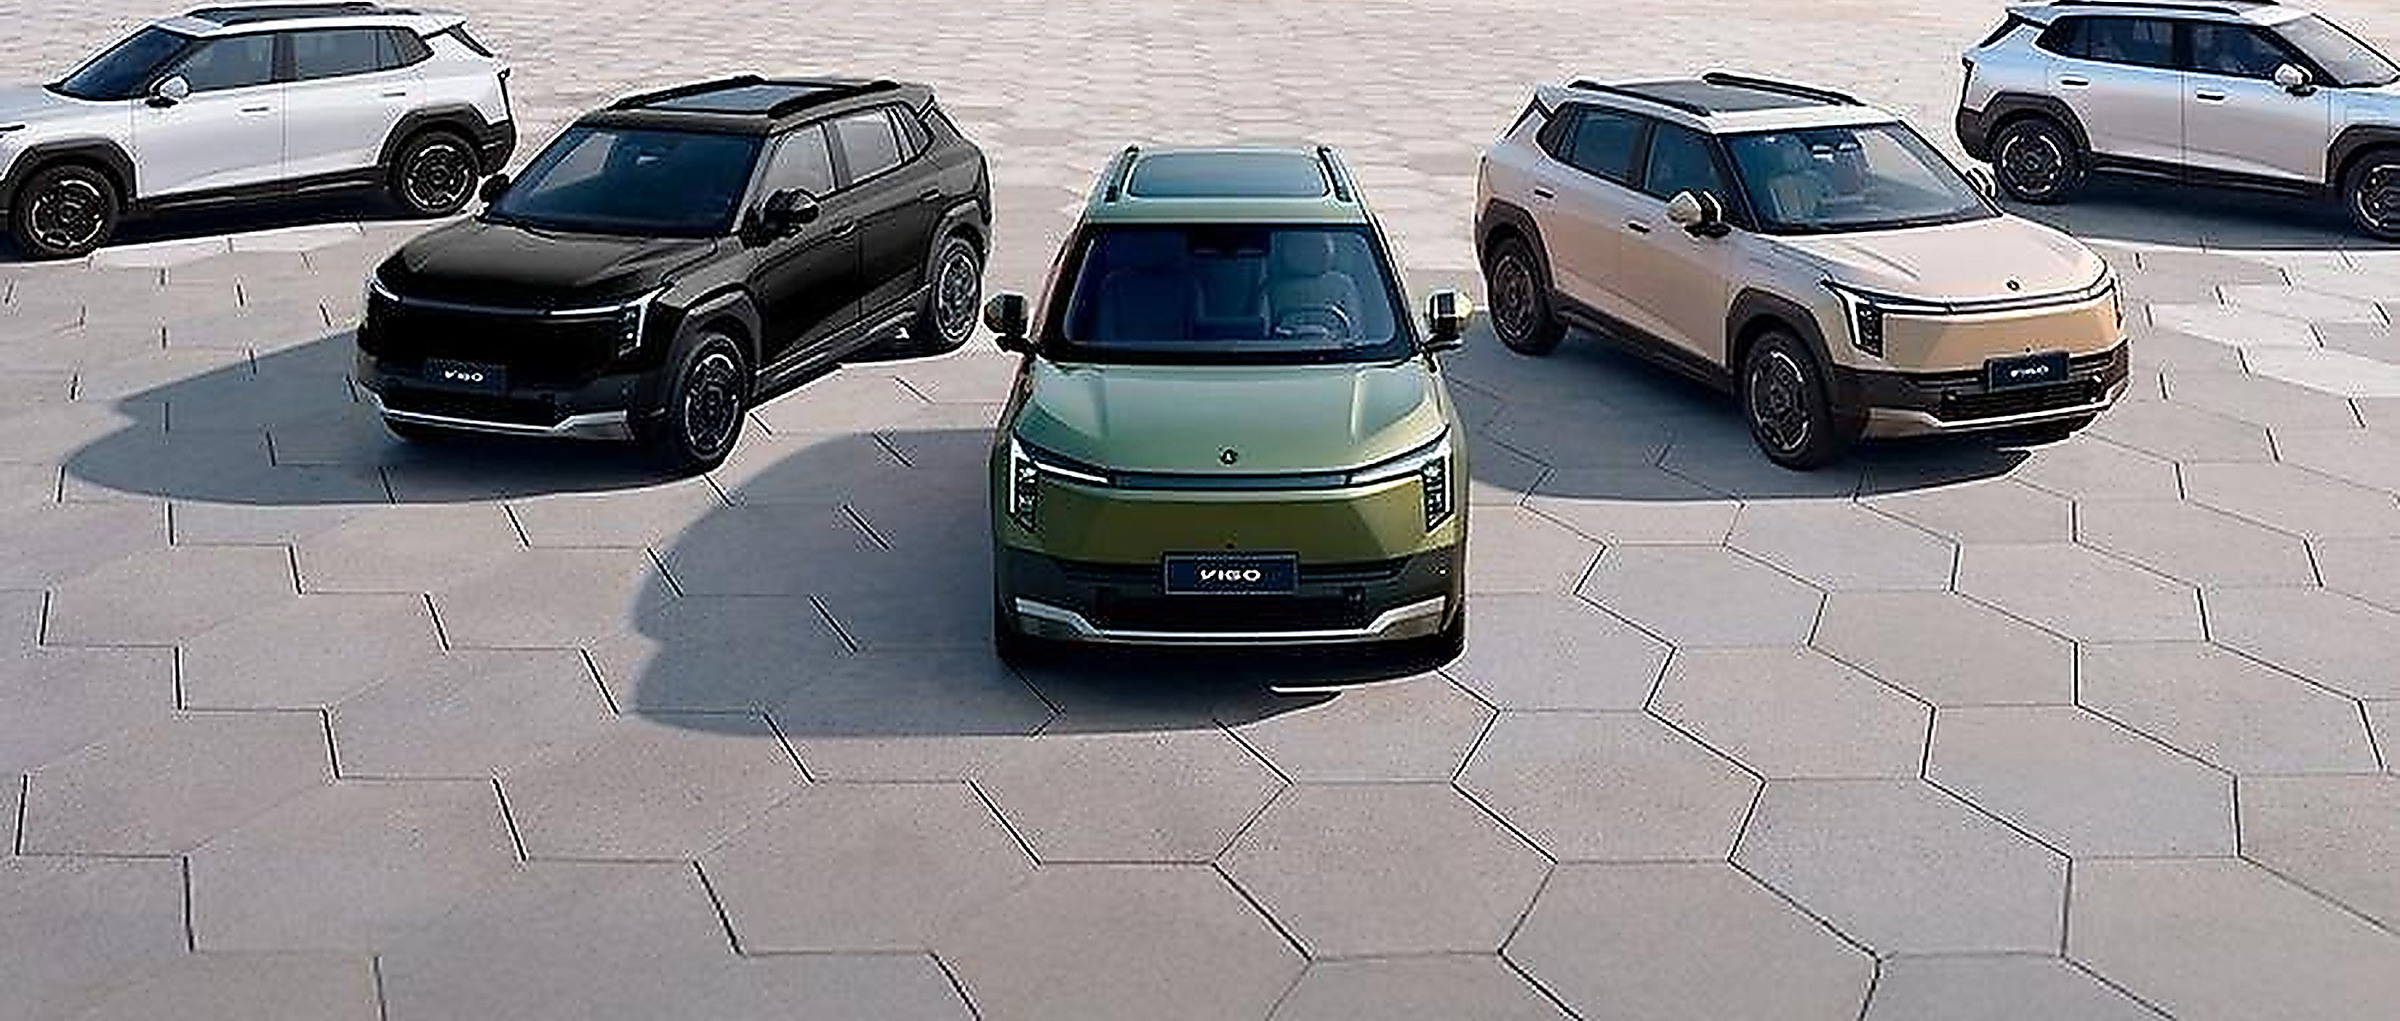
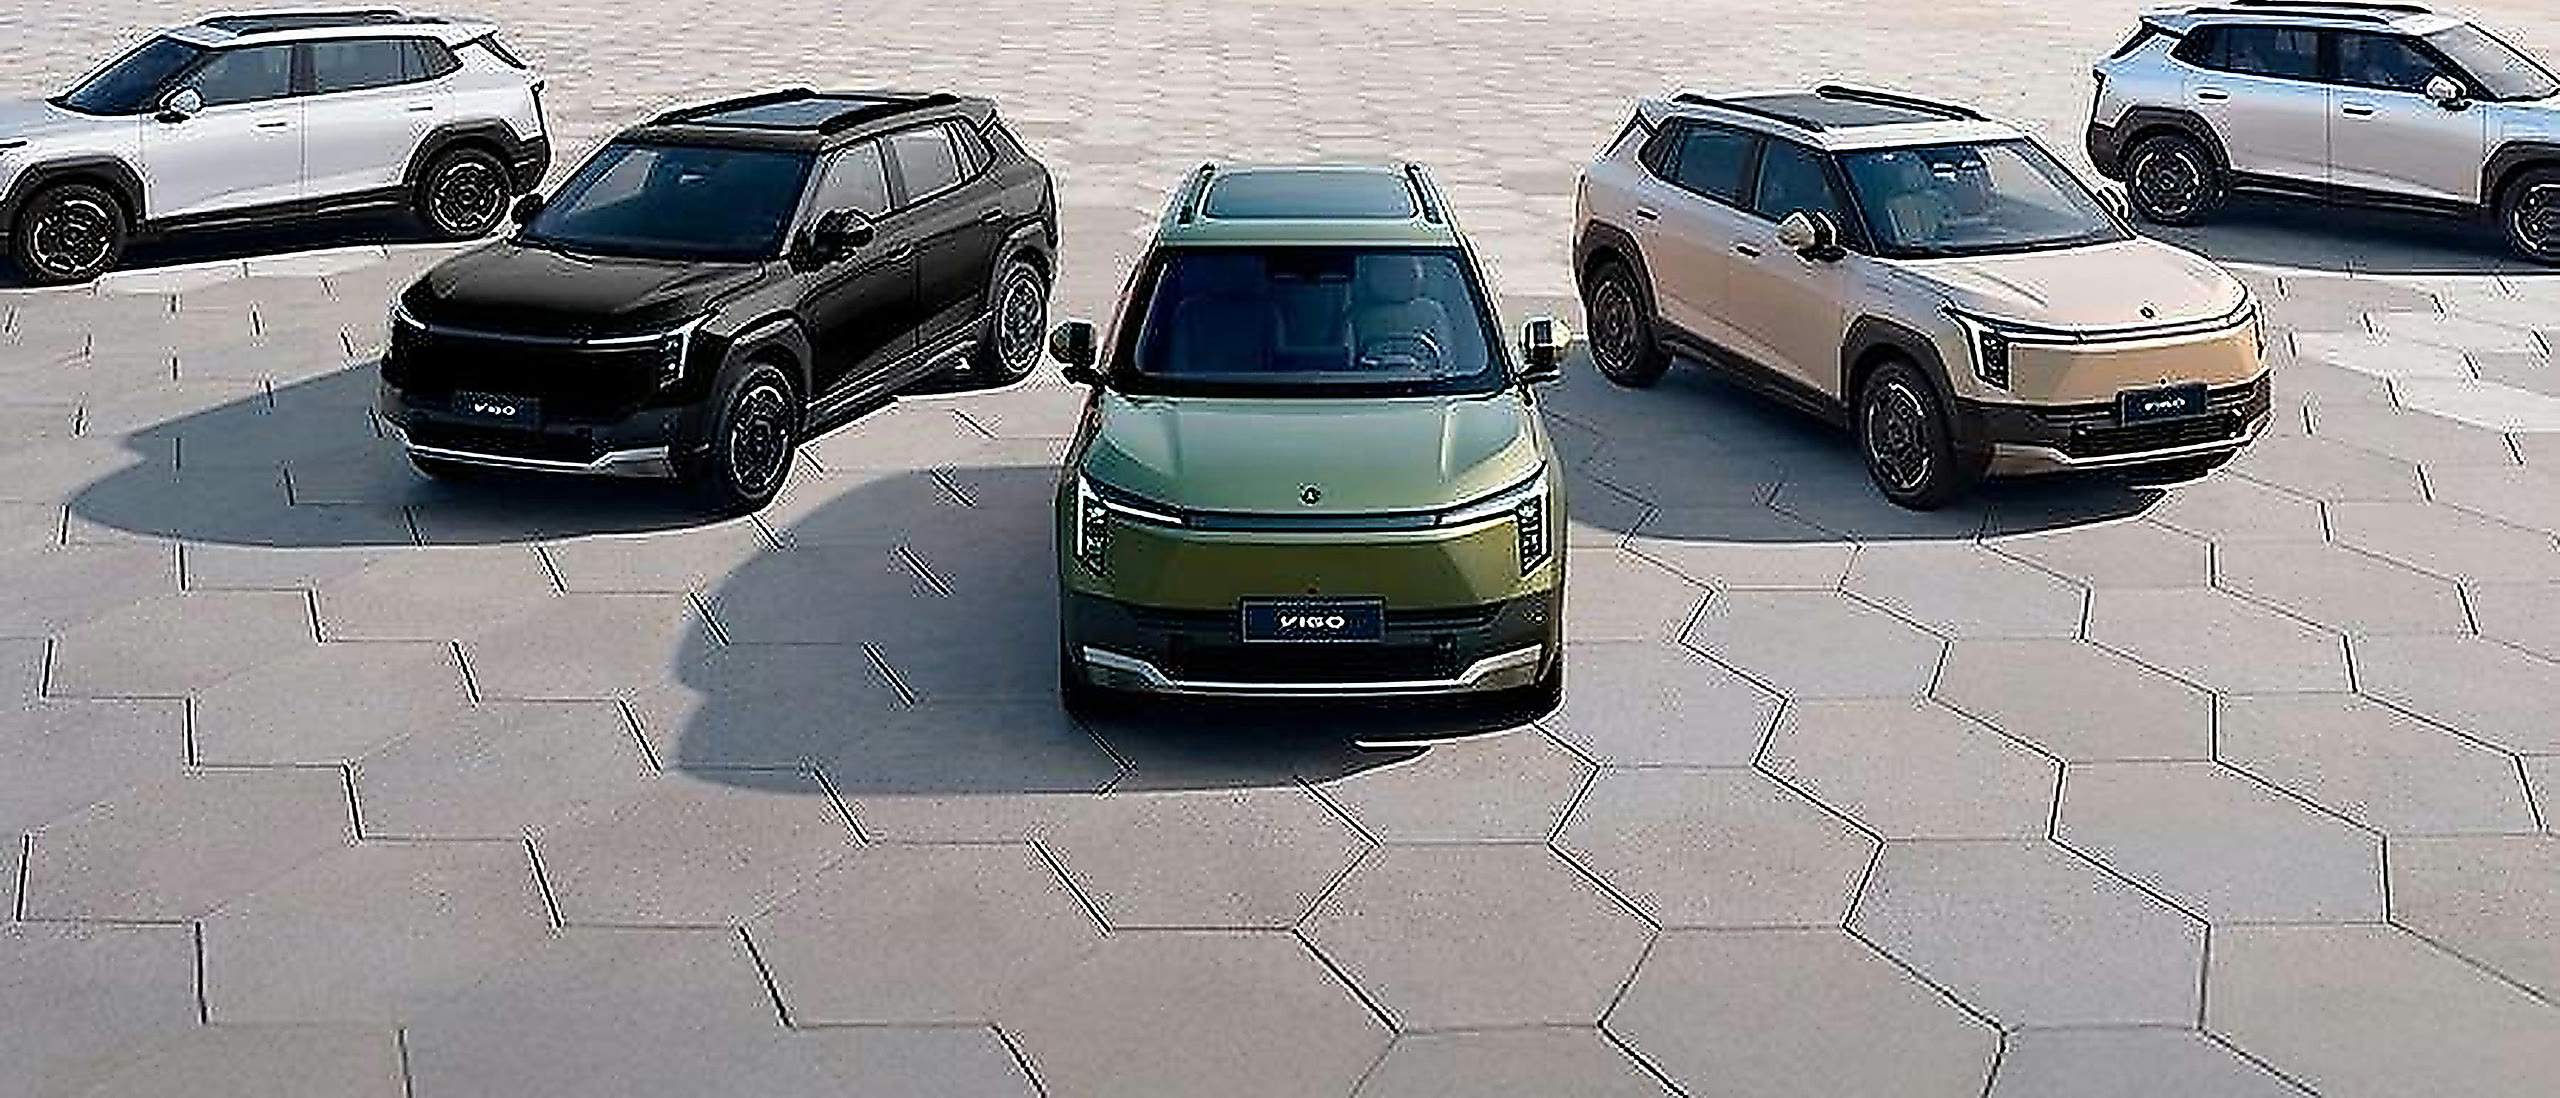
El mosaico de los cinco Vigo, regenerado desde la fuente mas nitida del repo
Daniel reporto pixelado. Medido, no a ojo: se calculo la energia de alto
detalle (varianza del laplaciano, normalizando todo al mismo ancho para que
la comparacion sea justa) sobre las cuatro copias de esta misma foto que
viven en el repo:

  img/carr/vigo@2x.jpg      3.960px   nitidez 3.371  <- la mejor
  img/vigo/hero-ancho@2x    3.600px   nitidez 2.745  <- la que se publicaba
  img/vigo/hero-ancho       2.400px   nitidez 1.830
  img/carr/vigo-d2x.jpg     3.840px   nitidez   584

La ultima fila es la leccion: tiene MAS pixeles que la que estabamos usando
y cinco veces MENOS detalle. Es una ampliacion, exactamente el fallo que
CLAUDE.md ya advierte. Contar pixeles no sirve; hay que medir.

Se regenera todo el set desde la de 3.960px con el pipeline aprobado
-lanczos + unsharp 0,5, cwebp -q 84 -sharp_yuv-, sin re-enfocar el tamano
nativo (unsharp sobre el original solo mete halos). Resultado medido:

  @2x  2.745 -> 3.371  (+23%)
  1x   1.830 -> 3.867  (+111%, y ademas pesa MENOS: 579KB -> 564KB)

Se agregan anchos intermedios (1280/1920/2560) que no existian: antes el
telefono se bajaba la imagen de escritorio entera. Ahora movil pide 159KB
-dentro del presupuesto de 180KB de CLAUDE.md- en vez de 579KB.

El aspect-ratio de .calle-hero.panoramica pasa de 2400/1021 a 3960/1697:
sin eso el marco recortaba a los Vigo de las puntas, que en esta foto casi
tocan el borde.

Techo honesto: 3.960px es el maximo que existe de esta foto en todo el
[…]

diff --git a/index.html b/index.html
@@ -65,11 +65,9 @@
 <section class="carr" id="carr" aria-roledescription="carrusel" aria-label="Veh&iacute;culos disponibles">
     <div class="slide on panoramica" data-i="0">
       <picture>
-        <source type="image/webp" media="(max-width:860px)" srcset="img/vigo/hero-ancho.webp">
-        <source type="image/webp" media="(min-width:861px)" srcset="img/vigo/hero-ancho.webp 2400w, img/vigo/hero-ancho@2x.webp 3600w" sizes="100vw">
-        <source media="(max-width:860px)" srcset="img/vigo/hero-ancho.jpg">
-        <source media="(min-width:861px)" srcset="img/vigo/hero-ancho.jpg 2400w" sizes="100vw">
-        <img src="img/vigo/hero-ancho.jpg" alt="La gama Dongfeng Vigo completa, un color por unidad, sobre una explanada" width="2400" height="1021" fetchpriority="high">
+        <source type="image/webp" srcset="img/vigo/hero-ancho-1280.webp 1280w, img/vigo/hero-ancho-1920.webp 1920w, img/vigo/hero-ancho-2560.webp 2560w, img/vigo/hero-ancho@2x.webp 3960w" sizes="100vw">
+        <source srcset="img/vigo/hero-ancho.jpg 2560w, img/vigo/hero-ancho@2x.jpg 3960w" sizes="100vw">
+        <img src="img/vigo/hero-ancho.jpg" alt="La gama Dongfeng Vigo completa, un color por unidad, sobre una explanada" width="3960" height="1697" fetchpriority="high">
       </picture>
       <div class="velo"></div>
       <div class="txt"><div class="wrap">
@@ -208,7 +206,7 @@
   </div>
 
   <div class="calle-hero panoramica">
-    <picture><source type="image/webp" srcset="img/vigo/hero-ancho.webp 2400w, img/vigo/hero-ancho@2x.webp 3600w" sizes="100vw"><img src="img/vigo/hero-ancho.jpg" alt="La gama Dongfeng Vigo completa, un color por unidad, sobre una explanada" width="2400" height="1021" loading="lazy" decoding="async"></picture>
+    <picture><source type="image/webp" srcset="img/vigo/hero-ancho-1280.webp 1280w, img/vigo/hero-ancho-1920.webp 1920w, img/vigo/hero-ancho-2560.webp 2560w, img/vigo/hero-ancho@2x.webp 3960w" sizes="100vw"><img src="img/vigo/hero-ancho.jpg" alt="La gama Dongfeng Vigo completa, un color por unidad, sobre una explanada" width="3960" height="1697" loading="lazy" decoding="async"></picture>
     <div class="sobre"><div class="wrap">
       <h3>Cinco colores,<br>una misma familia.</h3>
       <p>Material de marca Dongfeng. Los colores disponibles en Colombia son los del cat&aacute;logo de cada referencia.</p>

diff --git a/torq.css b/torq.css
@@ -917,11 +917,11 @@ img[style*="background-image"]{background-position:center;background-repeat:no-r
    Esta variante fija el ratio EXACTO del archivo (2400x1021) en los dos
    tamanos: no hay nada que recortar en ancho porque nunca se le pide un
    marco mas angosto que el que ya trae. */
-.calle-hero.panoramica img{aspect-ratio:2400/1021}
+.calle-hero.panoramica img{aspect-ratio:3960/1697}
 
 @media(max-width:860px){
   .calle-hero img{aspect-ratio:4/3}
-  .calle-hero.panoramica img{aspect-ratio:2400/1021}
+  .calle-hero.panoramica img{aspect-ratio:3960/1697}
   .calle-hero .sobre{align-items:flex-end;padding-bottom:26px}
   .calle-hero::before{background:linear-gradient(to top,rgba(4,5,6,.9) 0%,rgba(4,5,6,.6) 34%,rgba(4,5,6,.1) 62%,transparent 78%)}
   .calle-par{grid-template-columns:1fr;gap:12px}
